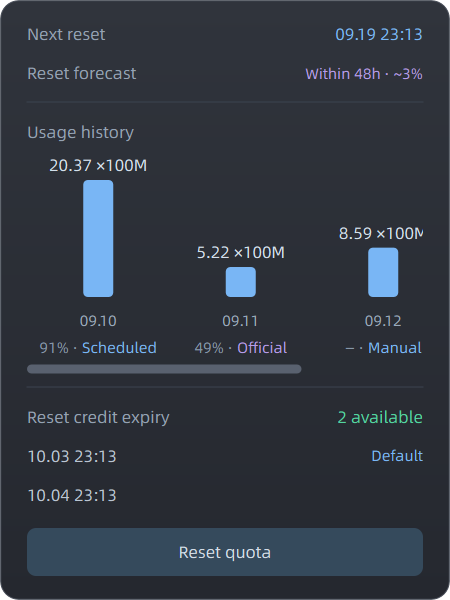
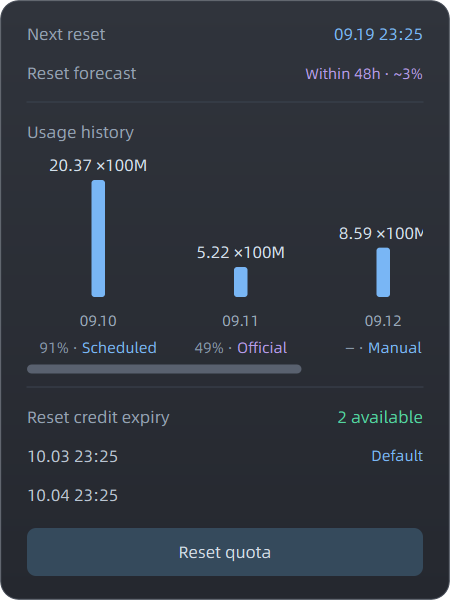
fix(ui): lighten reset chart columns
Reduce column width from 20 to 9 DIP and soften the corners while preserving the shared scale, labels and scroll behavior. Verified with native rendering and seven focused chart tests.

diff --git a/codex_taskbar/app.py b/codex_taskbar/app.py
@@ -1458,7 +1458,7 @@ class ResetPopup(TaskPopup):
         value=self.history_tokens(row)
         fraction=value/self.history_max if value is not None and self.history_max else 0
         center=18+(index+.5)*self.column_width-self.history_scroll.value()
-        return QRectF(center-10,174-78*fraction,20,78*fraction)
+        return QRectF(center-4.5,174-78*fraction,9,78*fraction)
 
     def layout_history_scroll(self):
         y=216+self.forecast_height-self.scroll
@@ -1471,7 +1471,7 @@ class ResetPopup(TaskPopup):
             box=self.history_bar_rect(row,index);center=box.center().x()
             if center+self.column_width/2<18 or center-self.column_width/2>self.width()-18:continue
             if box.height()>0:
-                p.setPen(Qt.PenStyle.NoPen);p.setBrush(QColor(BLUE));p.drawRoundedRect(box,3,min(3,box.height()/2))
+                p.setPen(Qt.PenStyle.NoPen);p.setBrush(QColor(BLUE));p.drawRoundedRect(box,2,min(2,box.height()/2))
             centered(' '.join(part for part in self.history_parts(row) if part),center,box.top()-10,face(8),'#d3dfeb')
             centered(datetime.fromtimestamp(row['at']).strftime('%m.%d'),center,190,face(7),'#9aa9ba')
             source=self.history_label(row);prefix=self.history_percent(row)+(' · ' if source else '')
